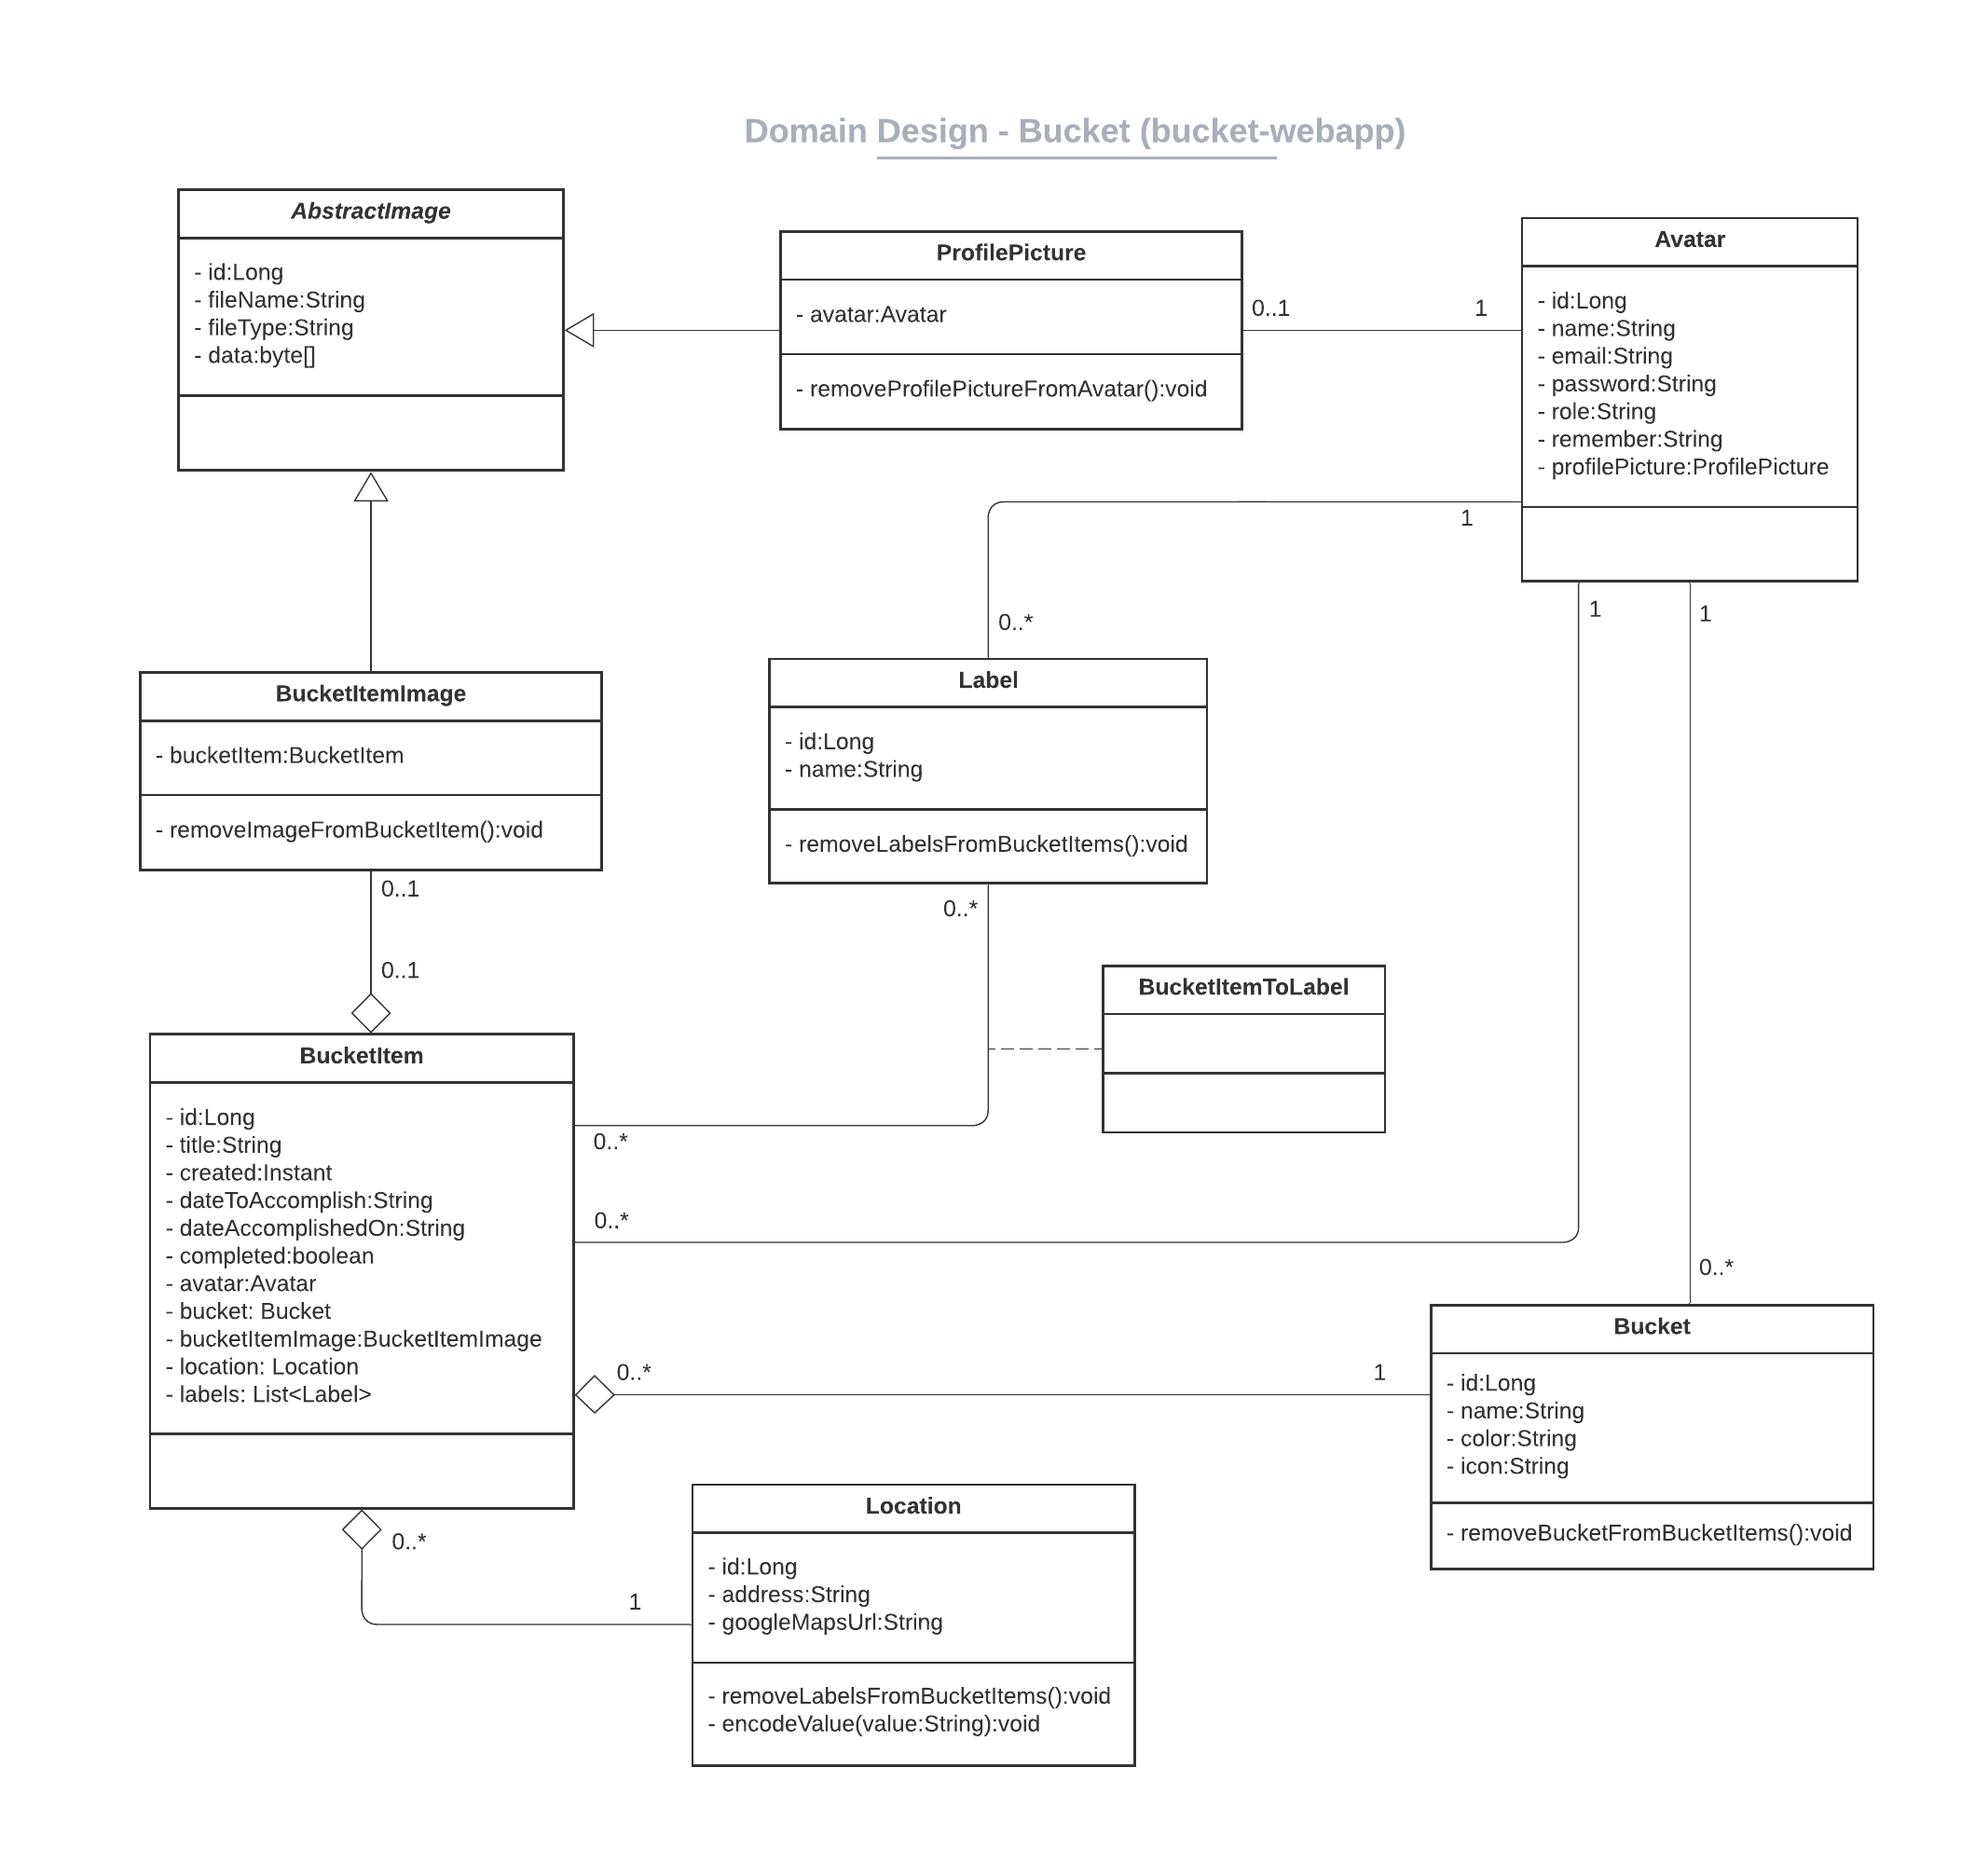
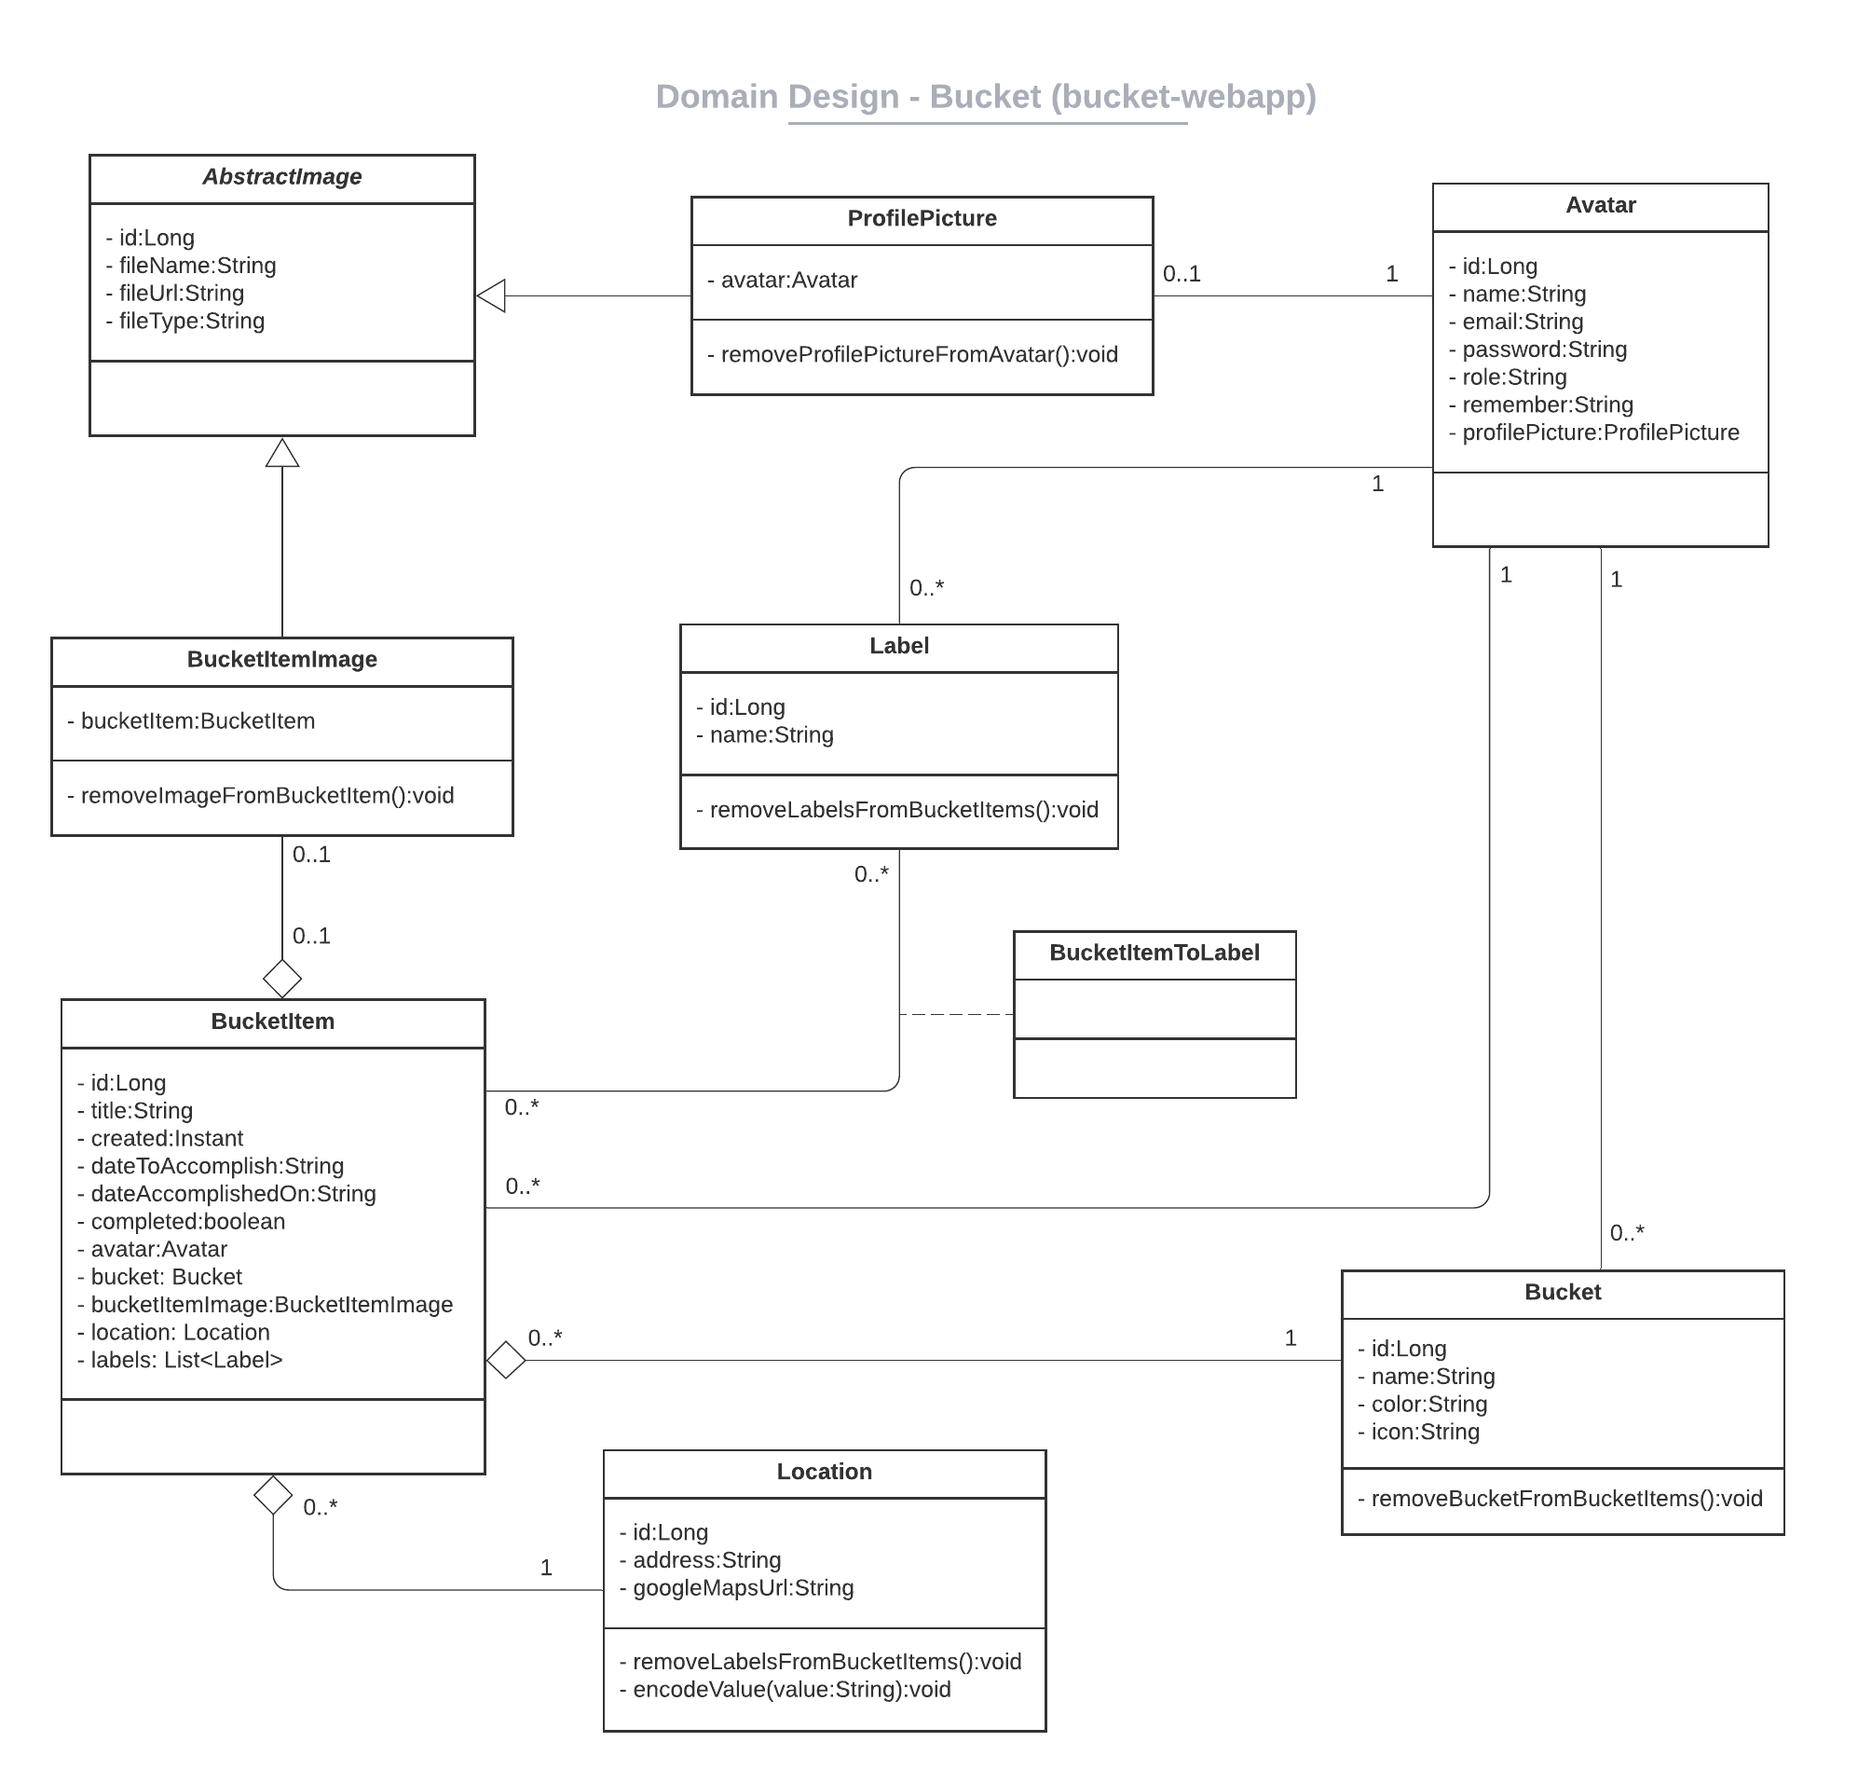
Update README according to changes

diff --git a/src/main/java/ch/fhnw/bucket/business/service/ImageService.java b/src/main/java/ch/fhnw/bucket/business/service/ImageService.java
@@ -20,6 +20,11 @@ import org.springframework.stereotype.Service;
 import org.springframework.util.FileSystemUtils;
 import org.springframework.web.multipart.MultipartFile;
 
+/**
+ * Service to save and retrieve uploaded images (ProfilePicture/BucketItemImage) from file system.
+ *
+ * https://www.bezkoder.com/spring-boot-file-upload/
+ */
 @Service
 public class ImageService {
     @Autowired

diff --git a/README.md b/README.md
@@ -102,7 +102,7 @@ The domain model describes the domain objects / entities that are found in `ch.f
 
 Key points include:
 
-- The entity **AbstractImage** is an abstract class with inheritance to both BucketItemImage and ProfilePicture. They are used to store uploaded Images as profile pictures or images for bucket items.
+- The entity **AbstractImage** is an abstract class with inheritance to both BucketItemImage and ProfilePicture. They are used to store information about uploaded Images as profile pictures or images for bucket items.
 - The entity **BucketItem** as the idea of bucket items (similar to todo items) is at the core of our bucket-webapp. Logically, many connections to this entity exist.
 - The ManyToMany relationship between BucketItem and Label. BucketItemToLabel signals the intermediate table, according to the UML standard.
 
@@ -110,16 +110,16 @@ Key points include:
 
 ### Business Logic Design
 
-Our application is composed of a total of 7 business services, of which 5 are implementing validations.
-The bucket-webapp package is depicted in the following Business Logic Design:
+Our application is composed of a total of 7 business services, which are used to interact with the database through API calls. All services use the @Service tag, and five use the validated annotation.
+This is depicted in the following Business Logic Design:
 
-<img src="images/Business_Logic_Design_Bucketlist_App.png">
+![Domain Model](images/Business_Logic_Design_Bucketlist_App.png)
 
 ### Endpoint Design
 
-The [Postman](https://www.postman.com/) API Platform was used for the endpoint design and during the implementation of the backend. Using Postman allowed us to create the API collaboratively and efficiently thanks to a synchronized workflow. Furthermore, Postman allowed us to create a user-friendly, web-view of the API documentation.
+The [Postman](https://www.postman.com/) API Platform was used for the endpoint design and during the implementation of the backend. Using Postman allowed us to create the API collaboratively and efficiently thanks to a synchronized workflow. Furthermore, Postman also allowed us to create the API documentation through an out-of-the-box, user-friendly, web-view of the API.
 
-Furthermore, as a backup, the bucket-webapp-api repository (https://github.com/972C8/bucket-webapp-api) was created to automatically push API changes in Postman to Github.
+As a backup, the bucket-webapp-api repository (https://github.com/972C8/bucket-webapp-api) was created to automatically push API changes in Postman to Github.
 
 **Please check out our endpoint design at https://documenter.getpostman.com/view/17679206/UVXerdXY for a user-friendly web-view of the API.**
 
@@ -159,15 +159,27 @@ This example highlights the defined relationships using JPA. The @OneToOne/@OneT
 
 #### Support of Images (using Inheritance)
 
-The support of uploading images both as profile pictures and for bucket items is enabled through a custom implementation that stores images as byte[] in the database and using inheritance with AbstractImage as the abstract superclass.
+The support of uploading images both as profile pictures and for bucket items is enabled through a custom implementation that stores images in the file system and a corresponding object in the database, which holds the relevant information to retrieve the image.
+The implementation employs inheritance through AbstractImage as the abstract superclass with BucketItemImage and ProfilePicture extending from it.
 
-This is highlighted in the domain model and implemented accordingly. The abstract class AbstractImage holds the main attributes relevant to images (such as fileName, fileType and data) and the classes ProfilePicture and BucketItemImage extend it.
+This is highlighted in the domain model and implemented accordingly. The abstract class AbstractImage holds the main attributes relevant to images (such as fileName, fileType and fileUrl) and the classes ProfilePicture and BucketItemImage extend it.
 
 **Single table inheritance and discriminator:**
 
 The image implementation uses single table inheritance and a discriminator column.
-This effectively means that only asingle table is created in the database (although there are 3 classes!) and that the discriminator is used
+This effectively means that only a single table is created in the database (although there are 3 classes!) and that the discriminator is used
 to determine which class the particular row belongs to. More information is found at https://en.wikibooks.org/wiki/Java_Persistence/Inheritance#Single_Table_Inheritance
+
+**Storing of Images:**
+
+Images are stored in the directory "/uploads" and a database entry is created for either BucketItem or ProfilePicture,
+which holds the relevant information (fileName, fileType, fileUrl). When a GET request is sent, the entry is retrieved from
+the database and the image is taken from the file system using this information. 
+
+Images can be both stored in the database and using the file system. The implementation initially stored the images in the database,
+but due to compatibility issue when using PostgreSQL on Heroku and Oracle locally, it was decided to store images in the directory.
+
+Read more about this issue in the [deployment section](#deployment).
 
 #### Location (Google Maps API)
 
@@ -205,8 +217,32 @@ The power of utility classes in CSS, especially, when working in a team is incre
 
 ## Deployment
 
-TODO: Deploy on Heroku  
-TODO: Write section about deployment
+This project has been deployed to Heroku by using the pre-configuration scripts `app.json` and `Procfile`.
+The project locally uses an in-memory database and PostgreSQL on Heroku, as it was added as an addon.
+
+The deployment to Heroku is very easy and self-explanatory. After connecting to the Github account, the project is deployed and ready to go.
+
+The project was automatically deployed to: https://bucket-webapp.herokuapp.com
+
+### Issues during the deployment:
+
+Deployment to Heroku was smooth. However, an issue arised with storing images.
+
+**Source of the issue:** The project uses PostgreSQL on Heroku, but an in-memory (oracle) database locally.
+Storing images directly in the datababe using the byte[] datatype and the @Lob annotation (to signify large objects)
+is not supported out-of-the-box for the two different databases!
+
+In other words, when using PostgreSQL on Heroku and Oracle locally, the hibernate annotation for byte[] is not compatible.
+
+The problem is detailed at https://stackoverflow.com/questions/3677380/proper-hibernate-annotation-for-byte and
+the solution is to either use the same database locally and remote, or create a custom dialect for PostgreSQL.
+
+No simple solution existed and testing was difficult due to not being able to reproduce it locally
+(no effective testing is possible when the local environment works even when it doesn't for remote).
+Therefore, it was decided to use this time and implement a file system for uploading and retrieving images. This approach
+is sensible and how it is usually done for websites as we also know from work experience in web development.
+Using a file system took additional time, but was estimated to be worthwhile for both the future additions to the project
+and as a learning experience.
 
 ## User Guide
 
